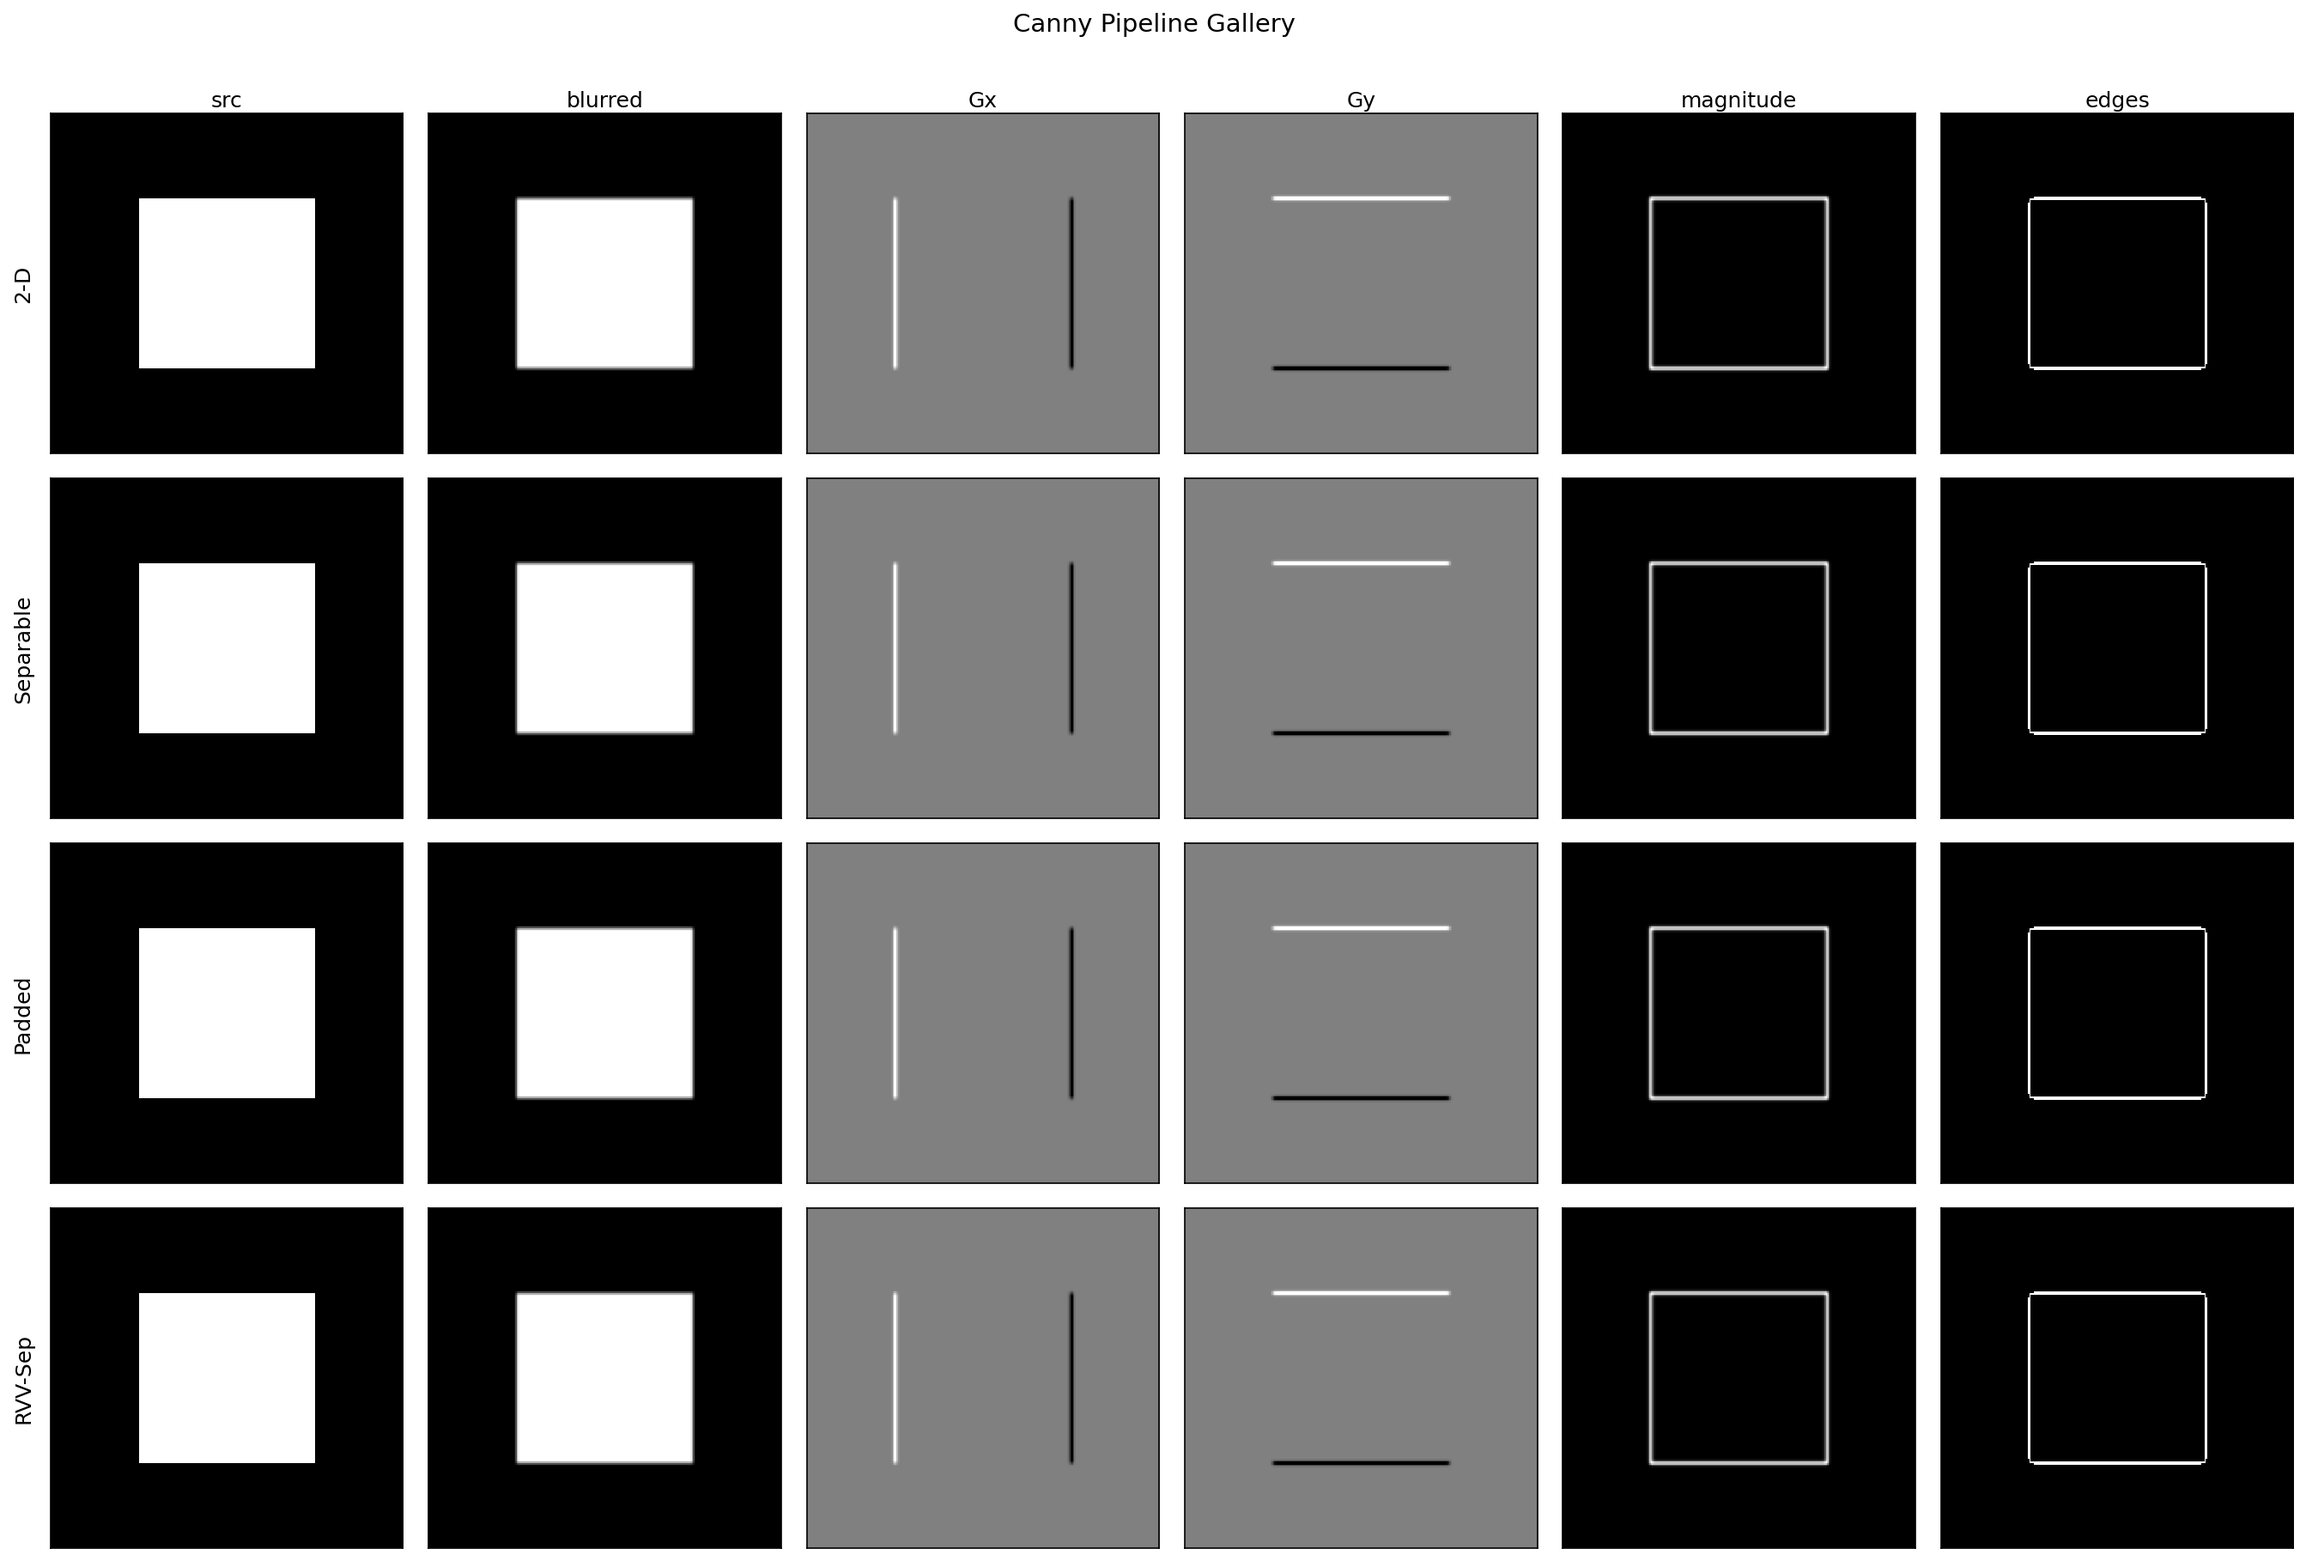
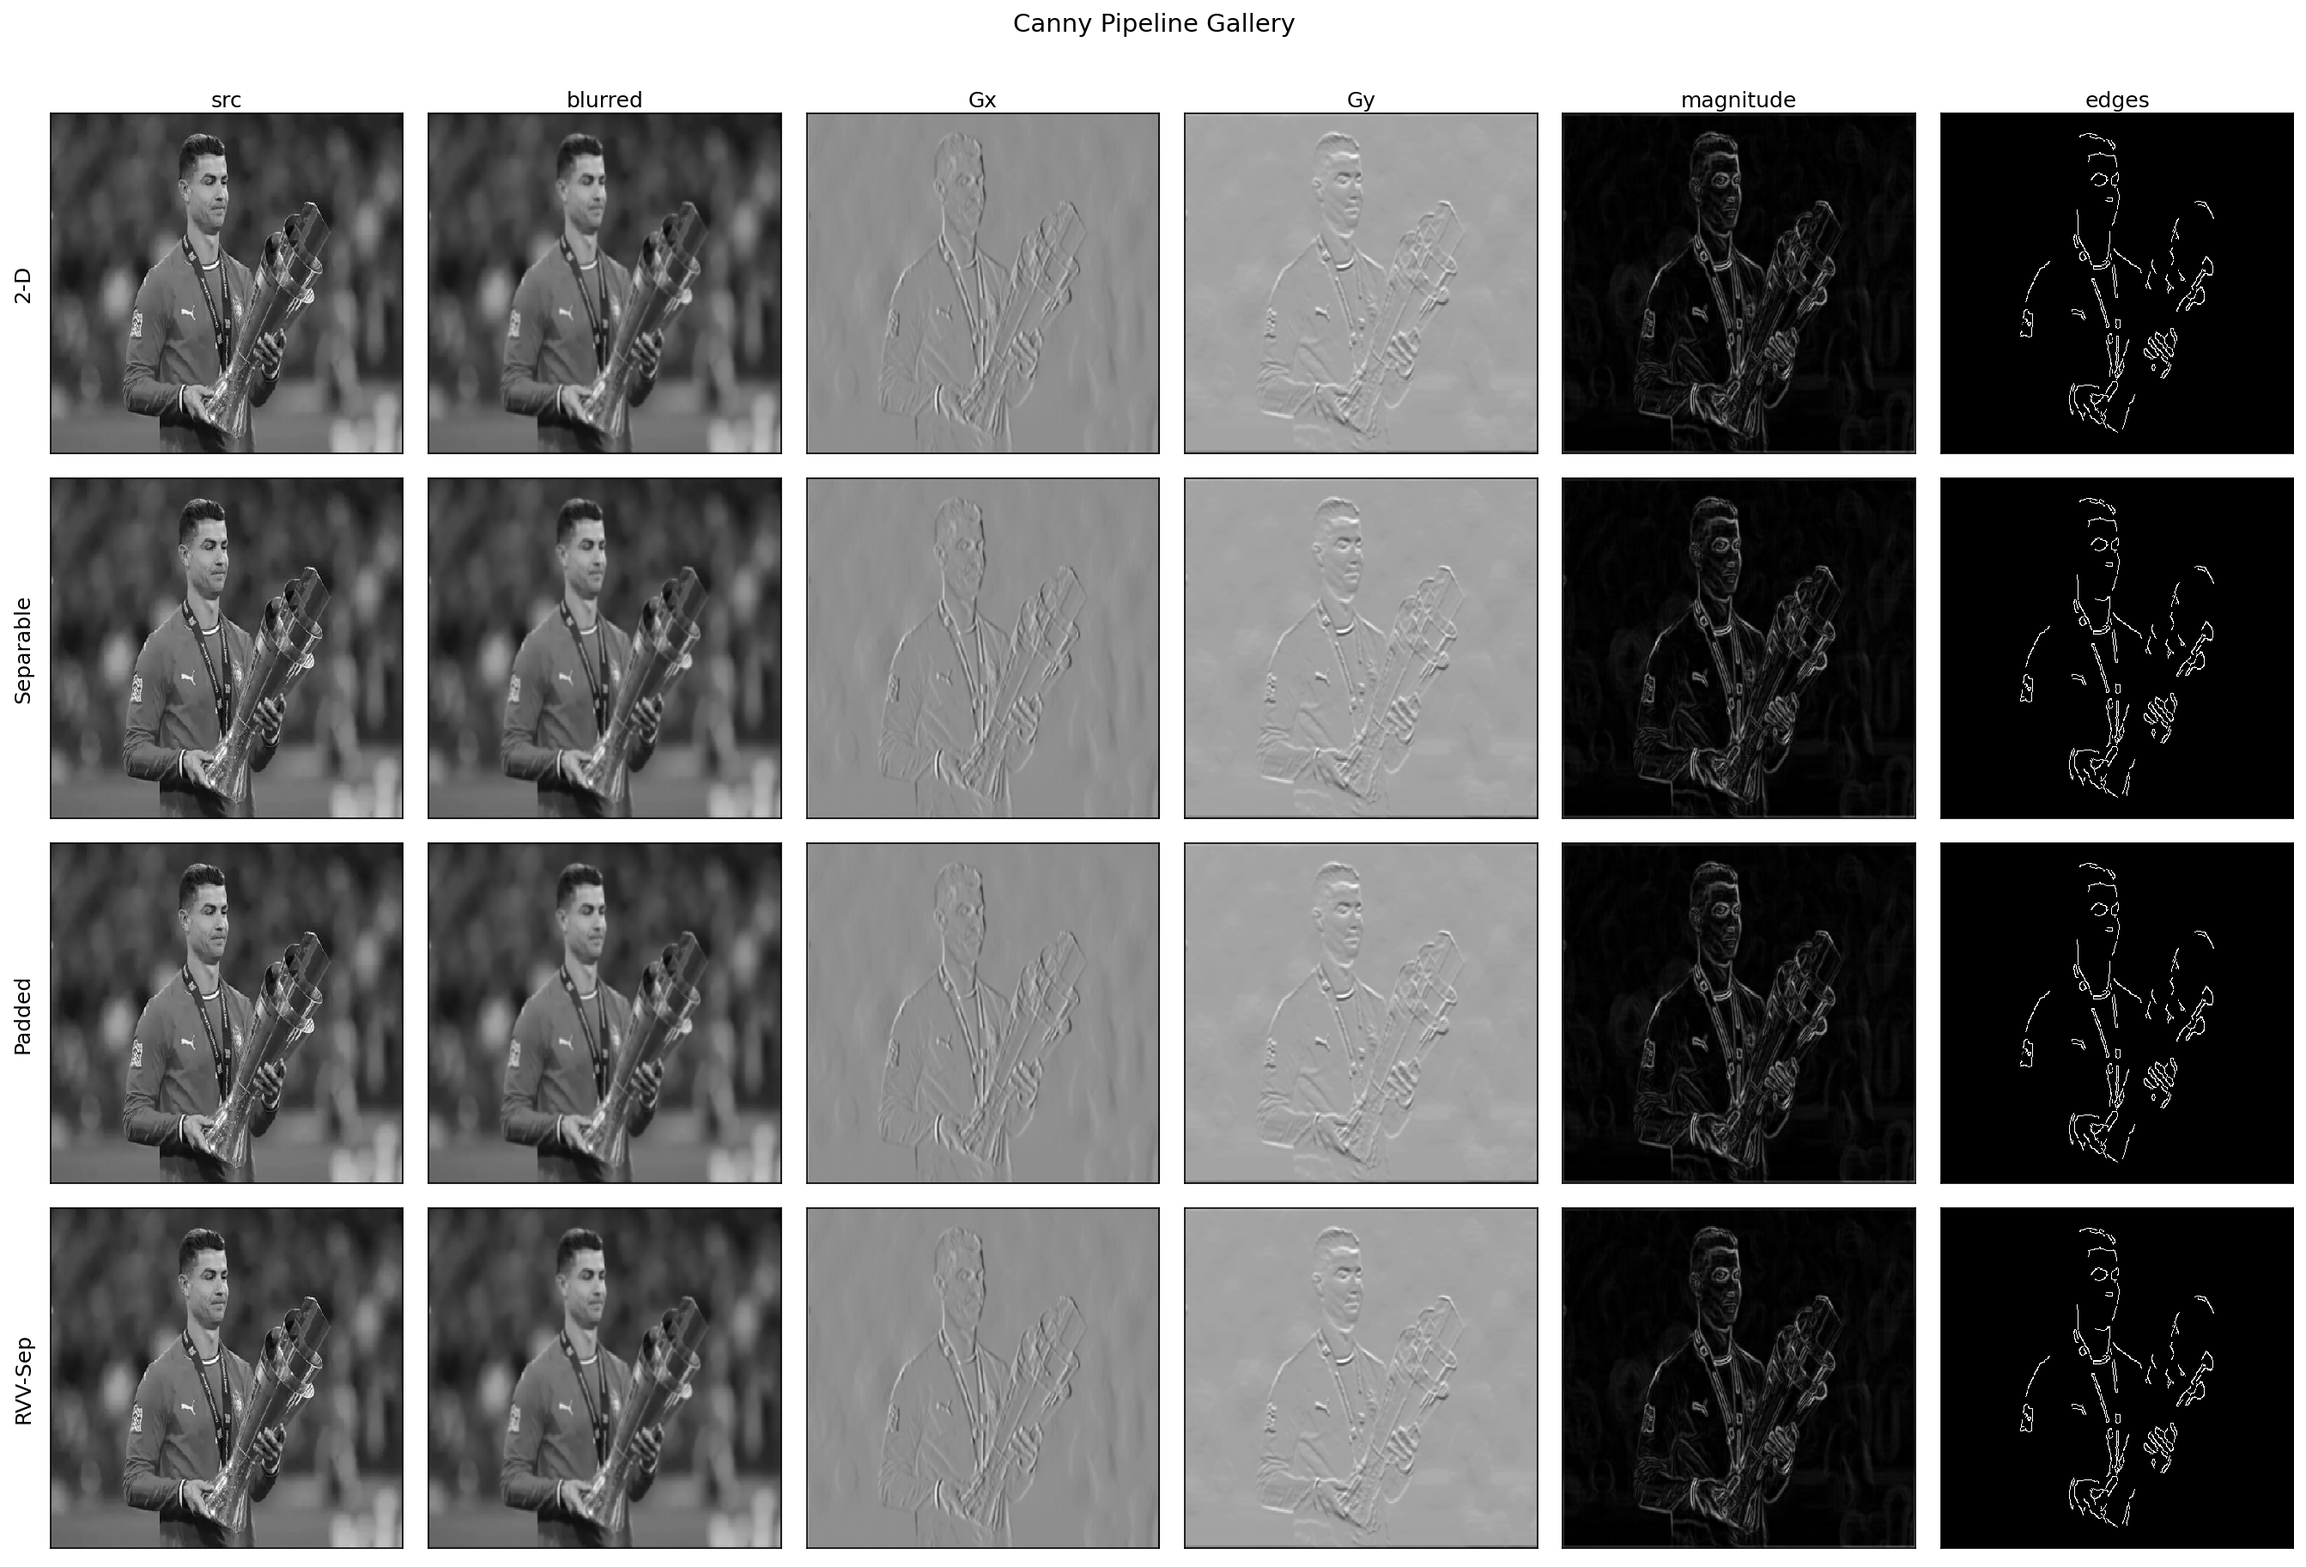
feat: read png, jpeg, webp images and pass it to the algorithm

diff --git a/src/main.cpp b/src/main.cpp
@@ -44,12 +44,13 @@ static const char *IMG_NAMES[] = {
     "horizontal_edge", // 3
     "checkerboard",    // 4
     "impulse",         // 5
-    "gradient_ramp"    // 6
+    "gradient_ramp",   // 6
+    "external"         // 7
 };
-static const int N_IMGS = 7;
+static const int N_IMGS = 8;
 
 // ── Generate image by index ───────────────────────────────────────────────────
-static Image gen_by_index(int I, int W, int H) {
+static Image gen_by_index(int I, int W, int H, const char *ext_path = nullptr) {
     switch (I) {
     case 0:
         return gen_white_square(W, H);
@@ -65,9 +66,11 @@ static Image gen_by_index(int I, int W, int H) {
         return gen_impulse(W, H);
     case 6:
         return gen_gradient_ramp(W, H);
+    case 7:
+        if (!ext_path) { fprintf(stderr, "I=7 requires a file path (argv[5])\n"); exit(1); }
+        return load_img(ext_path, W, H);   // uses existing img_io loader
     default:
-        fprintf(stderr, "Error: invalid image index %d\n", I);
-        exit(1);
+        fprintf(stderr, "Error: invalid image index %d\n", I); exit(1);
     }
 }
 // ====================================================================================================
@@ -75,35 +78,29 @@ static Image gen_by_index(int I, int W, int H) {
 // ====================================================================================================
 int main(int argc, char *argv[]) {
 
-    // ── Arguments ─────────────────────────────────────────────────────────────
-    if (argc != 5) {
+// ── Arguments ────────────────────────────────────────────────────────────
+    if (argc < 5 || argc > 6) {
         fprintf(stderr,
-                "Usage: %s <W> <H> <I> <VLEN>\n"
-                "  W, H : image dimensions in pixels\n"
-                "  I    : image index\n"
-                "         0=white_square  1=circle        2=vertical_edge\n"
-                "         3=hor_edge      4=checkerboard  5=impulse\n"
-                "         6=gradient_ramp\n"
-                "  VLEN : 128 | 256 | 512\n",
-                argv[0]);
+            "Usage: %s <W> <H> <I> <VLEN> [file.raw]\n"
+            "  I=7 : load external raw file — file.raw required\n", argv[0]);
         return 1;
     }
+    const int   W    = atoi(argv[1]);
+    const int   H    = atoi(argv[2]);
+    const int   I    = atoi(argv[3]);
+    const int   VLEN = atoi(argv[4]);
+    const char *ext_path = (argc == 6) ? argv[5] : nullptr;
 
-    const int W    = atoi(argv[1]);
-    const int H    = atoi(argv[2]);
-    const int I    = atoi(argv[3]);
-    const int VLEN = atoi(argv[4]);
-
-    if (W <= 0 || H <= 0) {
-        fprintf(stderr, "Error: W and H must be positive integers.\n");
-        return 1;
+    // Use the stem of the external filename as img_name so outputs are named sensibly
+    static char ext_name[256] = "external";
+    if (I == 7 && ext_path) {
+        const char *slash = strrchr(ext_path, '/');
+        const char *base  = slash ? slash + 1 : ext_path;
+        strncpy(ext_name, base, sizeof(ext_name) - 1);
+        // strip .raw extension
+        char *dot = strrchr(ext_name, '.'); if (dot) *dot = '\0';
     }
-    if (I < 0 || I >= N_IMGS) {
-        fprintf(stderr, "Error: I must be in [0, %d].\n", N_IMGS - 1);
-        return 1;
-    }
-
-    const char *img_name   = IMG_NAMES[I];
+    const char *img_name = (I == 7) ? ext_name : IMG_NAMES[I];
     const int   ITERATIONS = 100;
 
     // ── Banner ────────────────────────────────────────────────────────────────
@@ -155,7 +152,7 @@ int main(int argc, char *argv[]) {
 
     // ── Generate source image ─────────────────────────────────────────────────
     printf("[Step 1] Generating source image ...\n");
-    Image src = gen_by_index(I, W, H);
+    Image src = gen_by_index(I, W, H, ext_path);
     printf("   > Generated: %s (%dx%d)\n", img_name, W, H);
 
     // ── [Step 2] 2D Gaussian ──────────────────────────────────────────────────

diff --git a/tools/python/plot_pipeline.py b/tools/python/plot_pipeline.py
@@ -64,12 +64,15 @@ def load_col(base, suffix, col, W, H):
 
 
 def main():
-    if len(sys.argv) != 4:
-        print(f'Usage: python3 {sys.argv[0]} <W> <H> <image_index>')
+    if len(sys.argv) < 4 or len(sys.argv) > 5:
+        print(f'Usage: python3 {sys.argv[0]} <W> <H> <image_index> [name]')
         sys.exit(1)
-
     W, H, I = int(sys.argv[1]), int(sys.argv[2]), int(sys.argv[3])
-    base    = img_name(W, H, I)
+    # Optional override — required for I=7 (external images)
+    if len(sys.argv) == 5:
+        base = f'{sys.argv[4]}_{W}x{H}'
+    else:
+        base = img_name(W, H, I)
 
     fig, axes = plt.subplots(len(ROWS), len(COLS), figsize=(18, 12))
 

diff --git a/tools/python/to_raw.py b/tools/python/to_raw.py
@@ -1,0 +1,20 @@
+#!/usr/bin/env python3
+"""
+Convert any image (PNG, JPG, BMP …) to flat grayscale .raw
+Usage:  python3 tools/python/to_raw.py  <input>  [output.raw]
+Prints: W H output_path   (so Makefile can capture them)
+"""
+import sys
+from pathlib import Path
+from PIL import Image
+
+src  = Path(sys.argv[1])
+dst  = Path(sys.argv[2]) if len(sys.argv) > 2 else Path("imgs") / (src.stem + ".raw")
+
+img  = Image.open(src).convert("L")   # force grayscale
+W, H = img.size
+dst.parent.mkdir(parents=True, exist_ok=True)
+img.tobytes()  # sanity
+open(dst, "wb").write(img.tobytes())
+
+print(f"{W} {H} {dst}")               # captured by Makefile
